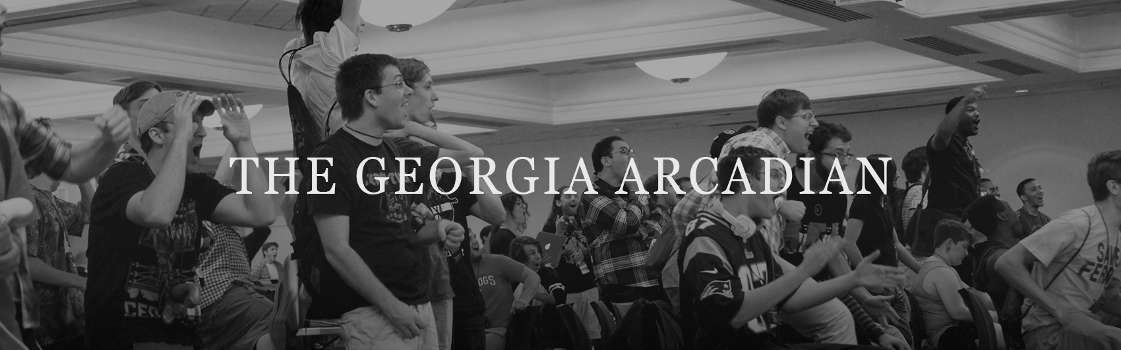
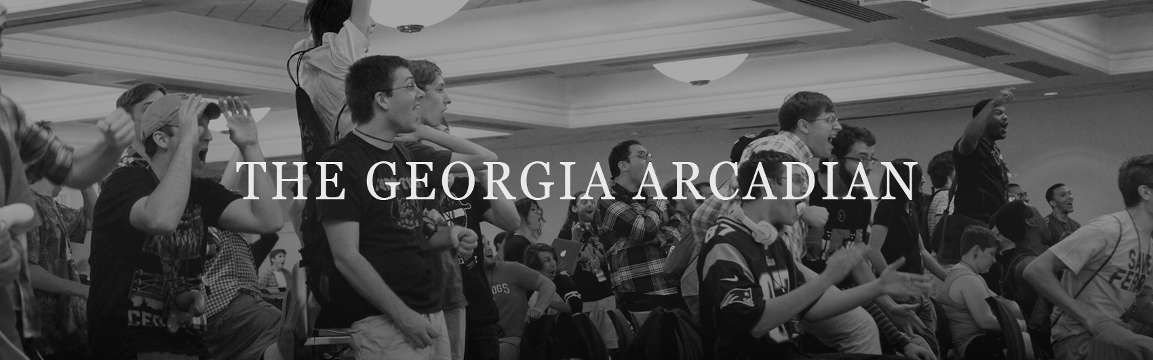
Lowered picture resolutions for loading. Changed Arcadian Portfolio picture for mobile.

diff --git a/client/app/tournaments/styles/tournaments.style.css b/client/app/tournaments/styles/tournaments.style.css
@@ -4,15 +4,27 @@ div.georgiaArcadian{
     height:350px;
     width:100%;
 }
+@media screen and (max-width: 62em){
+    div.georgiaArcadian {
+        background-image: url(../../../images/tournaments/TheGeorgiaArcadian/ArcadianBanner2Smaller.jpg);
+        background-repeat: no-repeat;
+        background-position: 50% 50%;
+        background-size:100%;
+        background-color: transparent;
+        background-size:cover;
+    }
+}
+
 
 div.georgiaArcadianStretch{
-    background-image: url(../../../images/tournaments/TheGeorgiaArcadian/ArcadianBanner2.jpg);
+    background-image: url(../../../images/tournaments/TheGeorgiaArcadian/ArcadianBanner2Smaller.jpg);
     background-repeat: no-repeat;
     background-position: 50% 50%;
     background-size:100%;
     background-color: transparent;
     background-size:cover;
 }
+
 
 div.comingSoon{
     background-image: url(../../../images/tournaments/PortfolioBannerSoon.jpg);
@@ -124,13 +136,13 @@ h2.superFamiCon{
 }
 
 div.superFamiCon{
-    background-image: url(../../../images/tournaments/SuperFamiCon/SFCbannerSmaller.png);
+    background-image: url(../../../images/tournaments/SuperFamiCon/FamiConBanner2Smaller.jpg);
     height:350px;
     width:100%;
 }
 
 div.superFamiConStretch{
-    background-image: url(../../../images/tournaments/SuperFamiCon/FamiConBanner1.jpg);
+    background-image: url(../../../images/tournaments/SuperFamiCon/FamiConBanner1Smaller.jpg);
     background-repeat: no-repeat;
     background-position: 50% 50%;
     background-size:100%;

diff --git a/client/app/splash/styles/splash.style.css b/client/app/splash/styles/splash.style.css
@@ -38,7 +38,7 @@ img.stretch{
 }
 
 div.imageStretchMain {
-    background-image: url(../../../images/common/MainBanner.jpg);
+    background-image: url(../../../images/common/MainBannerMedium.jpg);
     background-repeat: no-repeat;
     background-position: 50% 50%;
     background-size:100%;
@@ -47,7 +47,7 @@ div.imageStretchMain {
 }
 @media screen and (max-width: 62em){
     div.imageStretchMain {
-        background-image: url(../../../images/common/MainBanner.jpg);
+        background-image: url(../../../images/common/MainBannerSmaller.jpg);
         background-repeat: no-repeat;
         background-position: 50% 50%;
         background-size:100%;

diff --git a/client/app/tournaments/views/tournaments.html b/client/app/tournaments/views/tournaments.html
@@ -6,7 +6,6 @@
         <div class="superFamiCon">
             <br/><br/><br/><br/>
             <br/><br/><br/>
-            <!--<h2 class="tournaments superFamiCon bebas">Super FamiCon</h2>-->
         </div>
     </a>
     <br/>
@@ -14,7 +13,6 @@
         <div class="georgiaArcadian">
             <br/><br/><br/><br/>
             <br/><br/><br/>
-            <!--<h2 class="tournaments georgiaArcadian">The Georgia Arcadian</h2>-->
         </div>
     </a>
     <br/>

diff --git a/client/app/tournaments/views/georgiaArcadian.html b/client/app/tournaments/views/georgiaArcadian.html
@@ -6,7 +6,8 @@
     <div class="georgiaArcadianStretch">
         <br/><br/><br/><br/>
         <br/><br/><br/><br/>
-        <!--<h1 class="tournaments georgiaArcadian">The Georgia Arcadian</h1>-->
+        <br/><br/><br/><br/>
+        <br/><br/><br/><br/>
         <br/><br/><br/><br/>
         <br/><br/><br/><br/>
         <br/><br/><br/><br/>

diff --git a/client/app/splash/views/splash.html b/client/app/splash/views/splash.html
@@ -11,6 +11,7 @@
         <br/><br/><br/><br/>
         <br/><br/><br/><br/>
         <br/><br/><br/><br/>
+        <br/><br/><br/><br/>
     </div>
     <div class="container">
         <br/><br/>
